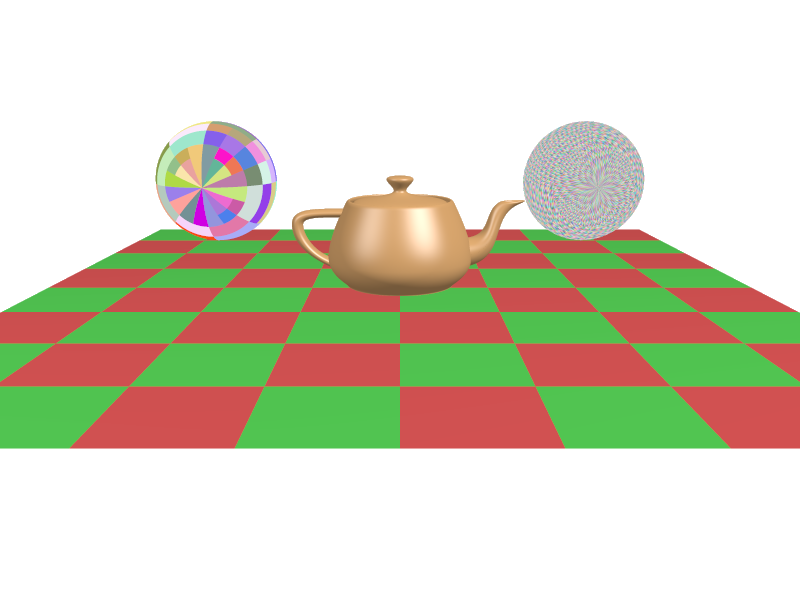
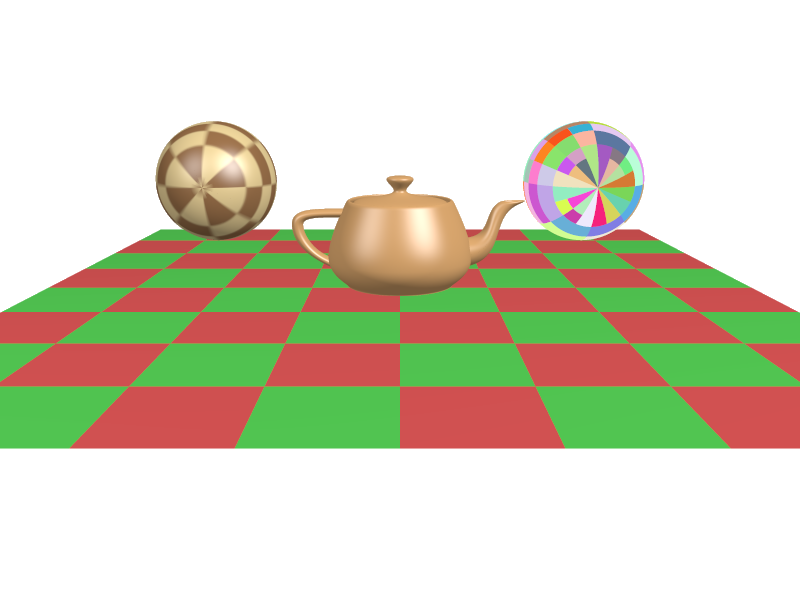
Add texture mapping support for paintedplastic shader
- Store parametric u,v coordinates in micropolygon grids
- Implement bilinear texture sampling with automatic mip level selection
- Parse paintedplastic shader parameters (texturename, Ka, Kd, Ks, etc.)
- Load and cache textures when paintedplastic shader is applied
- Update demo scene to show textured sphere

Changed region(s): [[0.6562, 0.18, 0.8125, 0.42], [0.1875, 0.18, 0.3438, 0.42]]

diff --git a/src/ri.c b/src/ri.c
@@ -9,6 +9,7 @@
 #include "rh_geometry.h"
 #include "rh_raster.h"
 #include "rh_shader.h"
+#include "rh_texture.h"
 #include "teapot_data.h"
 
 // --- Internal Types ---
@@ -1419,6 +1420,14 @@ static void ri_process_item_recursive(RhRenderItem* item, int depth, RhMicropoly
             ctx.grid_ptr = (void*)(intptr_t)(g_ctx->grid_counter);
             ctx.vertex_index = i;
 
+            // Texture coordinates from grid
+            ctx.u = grid->u_coords[i];
+            ctx.v = grid->v_coords[i];
+
+            // Texture coordinate derivatives (parametric spacing per grid cell)
+            ctx.du = (p->u_max - p->u_min) / (RhFloat)(gridSize - 1);
+            ctx.dv = (p->v_max - p->v_min) / (RhFloat)(gridSize - 1);
+
             if (item->shader) {
                 item->shader(&ctx, item->shader_params);
             } else {
@@ -1610,7 +1619,58 @@ void RiSurface(RtToken name, ...) {
         curr()->current_shader_params = NULL;
     } else if (strcmp(name, "paintedplastic") == 0) {
         curr()->current_surface_shader = rh_shader_surface_paintedplastic;
-        curr()->current_shader_params = NULL;
+        // Parse paintedplastic parameters
+        RhPaintedPlasticParams* params = (RhPaintedPlasticParams*)malloc(sizeof(RhPaintedPlasticParams));
+        if (params) {
+            // Initialize defaults
+            params->Ka = 1.0f;
+            params->Kd = 0.5f;
+            params->Ks = 0.5f;
+            params->roughness = 0.1f;
+            params->specular_color = (RhColor){1.0f, 1.0f, 1.0f};
+            params->texturename[0] = '\0';
+            params->texture = NULL;
+
+            va_list ap;
+            va_start(ap, name);
+            RtToken token;
+            while ((token = va_arg(ap, RtToken)) != RI_NULL) {
+                if (strcmp(token, "texturename") == 0) {
+                    RtToken texname = va_arg(ap, RtToken);
+                    if (texname) {
+                        strncpy(params->texturename, texname, sizeof(params->texturename) - 1);
+                        params->texturename[sizeof(params->texturename) - 1] = '\0';
+                        // Load the texture
+                        params->texture = rh_texture_load(texname, RH_TEX_RGB);
+                        if (!params->texture) {
+                            fprintf(stderr, "Warning: Failed to load texture '%s'\n", texname);
+                        }
+                    }
+                } else if (strcmp(token, "Ka") == 0) {
+                    RtFloat* val = va_arg(ap, RtFloat*);
+                    params->Ka = *val;
+                } else if (strcmp(token, "Kd") == 0) {
+                    RtFloat* val = va_arg(ap, RtFloat*);
+                    params->Kd = *val;
+                } else if (strcmp(token, "Ks") == 0) {
+                    RtFloat* val = va_arg(ap, RtFloat*);
+                    params->Ks = *val;
+                } else if (strcmp(token, "roughness") == 0) {
+                    RtFloat* val = va_arg(ap, RtFloat*);
+                    params->roughness = *val;
+                } else if (strcmp(token, "specularcolor") == 0) {
+                    RtColor* col = va_arg(ap, RtColor*);
+                    params->specular_color.r = (*col)[0];
+                    params->specular_color.g = (*col)[1];
+                    params->specular_color.b = (*col)[2];
+                }
+            }
+            va_end(ap);
+            curr()->current_shader_params = params;
+        } else {
+            curr()->current_shader_params = NULL;
+        }
+        return;  // Already consumed varargs
     } else if (strcmp(name, "shinymetal") == 0) {
         curr()->current_surface_shader = rh_shader_surface_shinymetal;
         curr()->current_shader_params = NULL;

diff --git a/src/rh_texture.c b/src/rh_texture.c
@@ -3,6 +3,7 @@
 #include <stdio.h>
 #include <stdlib.h>
 #include <string.h>
+#include <math.h>
 
 /* Helper: convert RhTextureFormat to LodePNGColorType */
 static LodePNGColorType format_to_lodepng(RhTextureFormat format) {
@@ -228,4 +229,87 @@ void rh_texture_get_texel(const RhTexture* tex, unsigned int level,
 
     unsigned int idx = ((unsigned int)y * mip->width + (unsigned int)x) * tex->channels;
     memcpy(out, &mip->data[idx], tex->channels);
+}
+
+RhColor rh_texture_sample_bilinear(const RhTexture* tex, unsigned int level,
+                                   float u, float v) {
+    RhColor result = {0, 0, 0};
+    if (!tex || !tex->levels) return result;
+
+    /* Clamp mip level */
+    if (level >= tex->num_levels) level = tex->num_levels - 1;
+
+    const RhMipLevel* mip = &tex->levels[level];
+
+    /* Wrap coordinates to [0,1] (repeat mode) */
+    u = u - floorf(u);
+    v = v - floorf(v);
+
+    /* Convert to texel coordinates */
+    float fx = u * (float)(mip->width - 1);
+    float fy = v * (float)(mip->height - 1);
+
+    int x0 = (int)floorf(fx);
+    int y0 = (int)floorf(fy);
+    int x1 = x0 + 1;
+    int y1 = y0 + 1;
+
+    /* Clamp to texture bounds */
+    if (x1 >= (int)mip->width) x1 = (int)mip->width - 1;
+    if (y1 >= (int)mip->height) y1 = (int)mip->height - 1;
+
+    /* Fractional parts for interpolation */
+    float tx = fx - (float)x0;
+    float ty = fy - (float)y0;
+
+    /* Fetch four texels */
+    unsigned char c00[4], c10[4], c01[4], c11[4];
+    rh_texture_get_texel(tex, level, x0, y0, c00);
+    rh_texture_get_texel(tex, level, x1, y0, c10);
+    rh_texture_get_texel(tex, level, x0, y1, c01);
+    rh_texture_get_texel(tex, level, x1, y1, c11);
+
+    /* Bilinear interpolation for each channel */
+    float r_top = (float)c00[0] * (1.0f - tx) + (float)c10[0] * tx;
+    float r_bot = (float)c01[0] * (1.0f - tx) + (float)c11[0] * tx;
+    float r_val = r_top * (1.0f - ty) + r_bot * ty;
+    result.r = r_val / 255.0f;
+
+    if (tex->channels >= 3) {
+        float g_top = (float)c00[1] * (1.0f - tx) + (float)c10[1] * tx;
+        float g_bot = (float)c01[1] * (1.0f - tx) + (float)c11[1] * tx;
+        float g_val = g_top * (1.0f - ty) + g_bot * ty;
+        result.g = g_val / 255.0f;
+
+        float b_top = (float)c00[2] * (1.0f - tx) + (float)c10[2] * tx;
+        float b_bot = (float)c01[2] * (1.0f - tx) + (float)c11[2] * tx;
+        float b_val = b_top * (1.0f - ty) + b_bot * ty;
+        result.b = b_val / 255.0f;
+    } else {
+        /* Grayscale: replicate to all channels */
+        result.g = result.r;
+        result.b = result.r;
+    }
+
+    return result;
+}
+
+RhColor rh_texture_sample(const RhTexture* tex, float u, float v,
+                          float du, float dv) {
+    if (!tex) return (RhColor){1.0f, 0.0f, 1.0f}; /* Magenta for missing texture */
+
+    /* Calculate filter width and mip level */
+    float filter_width = fmaxf(fabsf(du), fabsf(dv));
+    float max_dim = fmaxf((float)tex->base_width, (float)tex->base_height);
+    float texel_coverage = filter_width * max_dim;
+
+    float mip_float = log2f(fmaxf(1.0f, texel_coverage));
+    int level = (int)floorf(mip_float);
+
+    /* Clamp to valid range */
+    if (level < 0) level = 0;
+    if (level >= (int)tex->num_levels) level = (int)tex->num_levels - 1;
+
+    /* Sample at computed mip level (no trilinear for now) */
+    return rh_texture_sample_bilinear(tex, (unsigned int)level, u, v);
 }

diff --git a/include/rh_texture.h b/include/rh_texture.h
@@ -2,6 +2,7 @@
 #define RH_TEXTURE_H
 
 #include "rh_config.h"
+#include "rh_image.h"  /* For RhColor */
 
 /**
  * Texture channel format specifier.
@@ -69,5 +70,30 @@ unsigned int rh_texture_mip_count(unsigned int width, unsigned int height);
  */
 void rh_texture_get_texel(const RhTexture* tex, unsigned int level,
                           int x, int y, unsigned char* out);
+
+/**
+ * Sample texture with bilinear filtering at specified mip level.
+ *
+ * @param tex    Texture to sample
+ * @param level  Mip level (0 = full resolution, clamped to valid range)
+ * @param u      Normalized u coordinate [0,1] (wrapped to repeat)
+ * @param v      Normalized v coordinate [0,1] (wrapped to repeat)
+ * @return       Interpolated color (RGB)
+ */
+RhColor rh_texture_sample_bilinear(const RhTexture* tex, unsigned int level,
+                                   float u, float v);
+
+/**
+ * Sample texture with automatic mip level selection based on derivatives.
+ *
+ * @param tex    Texture to sample
+ * @param u      Normalized u coordinate [0,1]
+ * @param v      Normalized v coordinate [0,1]
+ * @param du     Derivative of u (filter width in u direction)
+ * @param dv     Derivative of v (filter width in v direction)
+ * @return       Filtered color
+ */
+RhColor rh_texture_sample(const RhTexture* tex, float u, float v,
+                          float du, float dv);
 
 #endif /* RH_TEXTURE_H */

diff --git a/src/rh_geometry.c b/src/rh_geometry.c
@@ -15,8 +15,11 @@ RhMicroGrid* rh_grid_create(int width, int height) {
     g->colors = (RhColor*)malloc(count * sizeof(RhColor));
     g->opacities = (RhColor*)malloc(count * sizeof(RhColor));
     g->normals = (RhVec3*)malloc(count * sizeof(RhVec3));
+    g->u_coords = (RhFloat*)malloc(count * sizeof(RhFloat));
+    g->v_coords = (RhFloat*)malloc(count * sizeof(RhFloat));
 
-    if (!g->positions || !g->colors || !g->opacities || !g->normals) {
+    if (!g->positions || !g->colors || !g->opacities || !g->normals ||
+        !g->u_coords || !g->v_coords) {
         rh_grid_destroy(g);
         return NULL;
     }
@@ -29,6 +32,8 @@ void rh_grid_destroy(RhMicroGrid* g) {
         if (g->colors) free(g->colors);
         if (g->opacities) free(g->opacities);
         if (g->normals) free(g->normals);
+        if (g->u_coords) free(g->u_coords);
+        if (g->v_coords) free(g->v_coords);
         free(g);
     }
 }
@@ -790,7 +795,9 @@ void rh_prim_dice(const RhPrimitive* p, int u_res, int v_res, RhMicroGrid* grid)
             int idx = j * grid->width + i;
             grid->positions[idx] = pos;
             grid->normals[idx] = norm;
-            
+            grid->u_coords[idx] = u;
+            grid->v_coords[idx] = v;
+
             // Default color (white)
             grid->colors[idx] = (RhColor){1.0f, 1.0f, 1.0f};
         }

diff --git a/src/rh_shader.c b/src/rh_shader.c
@@ -1,4 +1,5 @@
 #include "rh_shader.h"
+#include "rh_texture.h"
 #include <math.h>
 #include <stddef.h>
 #include <stdlib.h>
@@ -241,7 +242,6 @@ void rh_shader_surface_metal(RhShaderContext* ctx, void* params) {
 
 void rh_shader_surface_paintedplastic(RhShaderContext* ctx, void* params) {
     // Paintedplastic is like plastic but with texture-mapped surface color.
-    // Without texture mapping, we just use Cs as the surface color (fallback).
     RhPaintedPlasticParams* p = (RhPaintedPlasticParams*)params;
     float Ka = p ? p->Ka : 1.0f;
     float Kd = p ? p->Kd : 0.5f;
@@ -249,9 +249,14 @@ void rh_shader_surface_paintedplastic(RhShaderContext* ctx, void* params) {
     float r = p ? p->roughness : 0.1f;
     RhColor Cspec = p ? p->specular_color : (RhColor){1,1,1};
 
-    // In full implementation, we would sample texture here using ctx->u, ctx->v
-    // For now, just use Cs
-    RhColor surface_color = ctx->Cs;
+    // Sample texture if available, otherwise use Cs
+    RhColor surface_color;
+    if (p && p->texture) {
+        RhTexture* tex = (RhTexture*)p->texture;
+        surface_color = rh_texture_sample(tex, ctx->u, ctx->v, ctx->du, ctx->dv);
+    } else {
+        surface_color = ctx->Cs;
+    }
 
     RhColor ambient = {0,0,0};
     RhColor diff = {0,0,0};

diff --git a/src/main.c b/src/main.c
@@ -97,18 +97,19 @@ int main(int argc, char** argv) {
                 RiGeometry("teapot", RI_NULL);
             RiTransformEnd();
 
-            // --- Diagnostic Shader Demo: Spheres ---
-            // Sphere with randomgrid shader (each grid gets a unique color)
+            // --- Shader Demo: Spheres ---
+            // Sphere with paintedplastic shader and texture
             RiTransformBegin();
                 RiTranslate(-2.5f, 1.0f, -2.0f);
-                RiSurface("randomgrid", RI_NULL);
+                RiColor((RtColor){1.0f, 1.0f, 1.0f});  // White base (texture provides color)
+                RiSurface("paintedplastic", "texturename", "textures/checker.png", RI_NULL);
                 RiSphere(0.8f, -0.8f, 0.8f, 360.0f, RI_NULL);
             RiTransformEnd();
 
-            // Sphere with random shader (each micropolygon gets a unique color)
+            // Sphere with randomgrid shader (diagnostic)
             RiTransformBegin();
                 RiTranslate(2.5f, 1.0f, -2.0f);
-                RiSurface("random", RI_NULL);
+                RiSurface("randomgrid", RI_NULL);
                 RiSphere(0.8f, -0.8f, 0.8f, 360.0f, RI_NULL);
             RiTransformEnd();
 

diff --git a/include/rh_shader.h b/include/rh_shader.h
@@ -73,7 +73,8 @@ typedef struct {
     float Ks;
     float roughness;
     RhColor specular_color;
-    char texturename[256];  // Placeholder for texture mapping (not implemented yet)
+    char texturename[256];  // Path to texture file
+    void* texture;          // Cached RhTexture pointer (set by RiSurface)
 } RhPaintedPlasticParams;
 
 typedef struct {

diff --git a/include/rh_geometry.h b/include/rh_geometry.h
@@ -14,6 +14,8 @@ typedef struct {
     RhColor* colors;    // Shaded colors (Ci - premultiplied)
     RhColor* opacities; // Shaded opacities (Oi)
     RhVec3* normals;
+    RhFloat* u_coords;  // Parametric u coordinates [0,1]
+    RhFloat* v_coords;  // Parametric v coordinates [0,1]
 } RhMicroGrid;
 
 RhMicroGrid* rh_grid_create(int width, int height);
